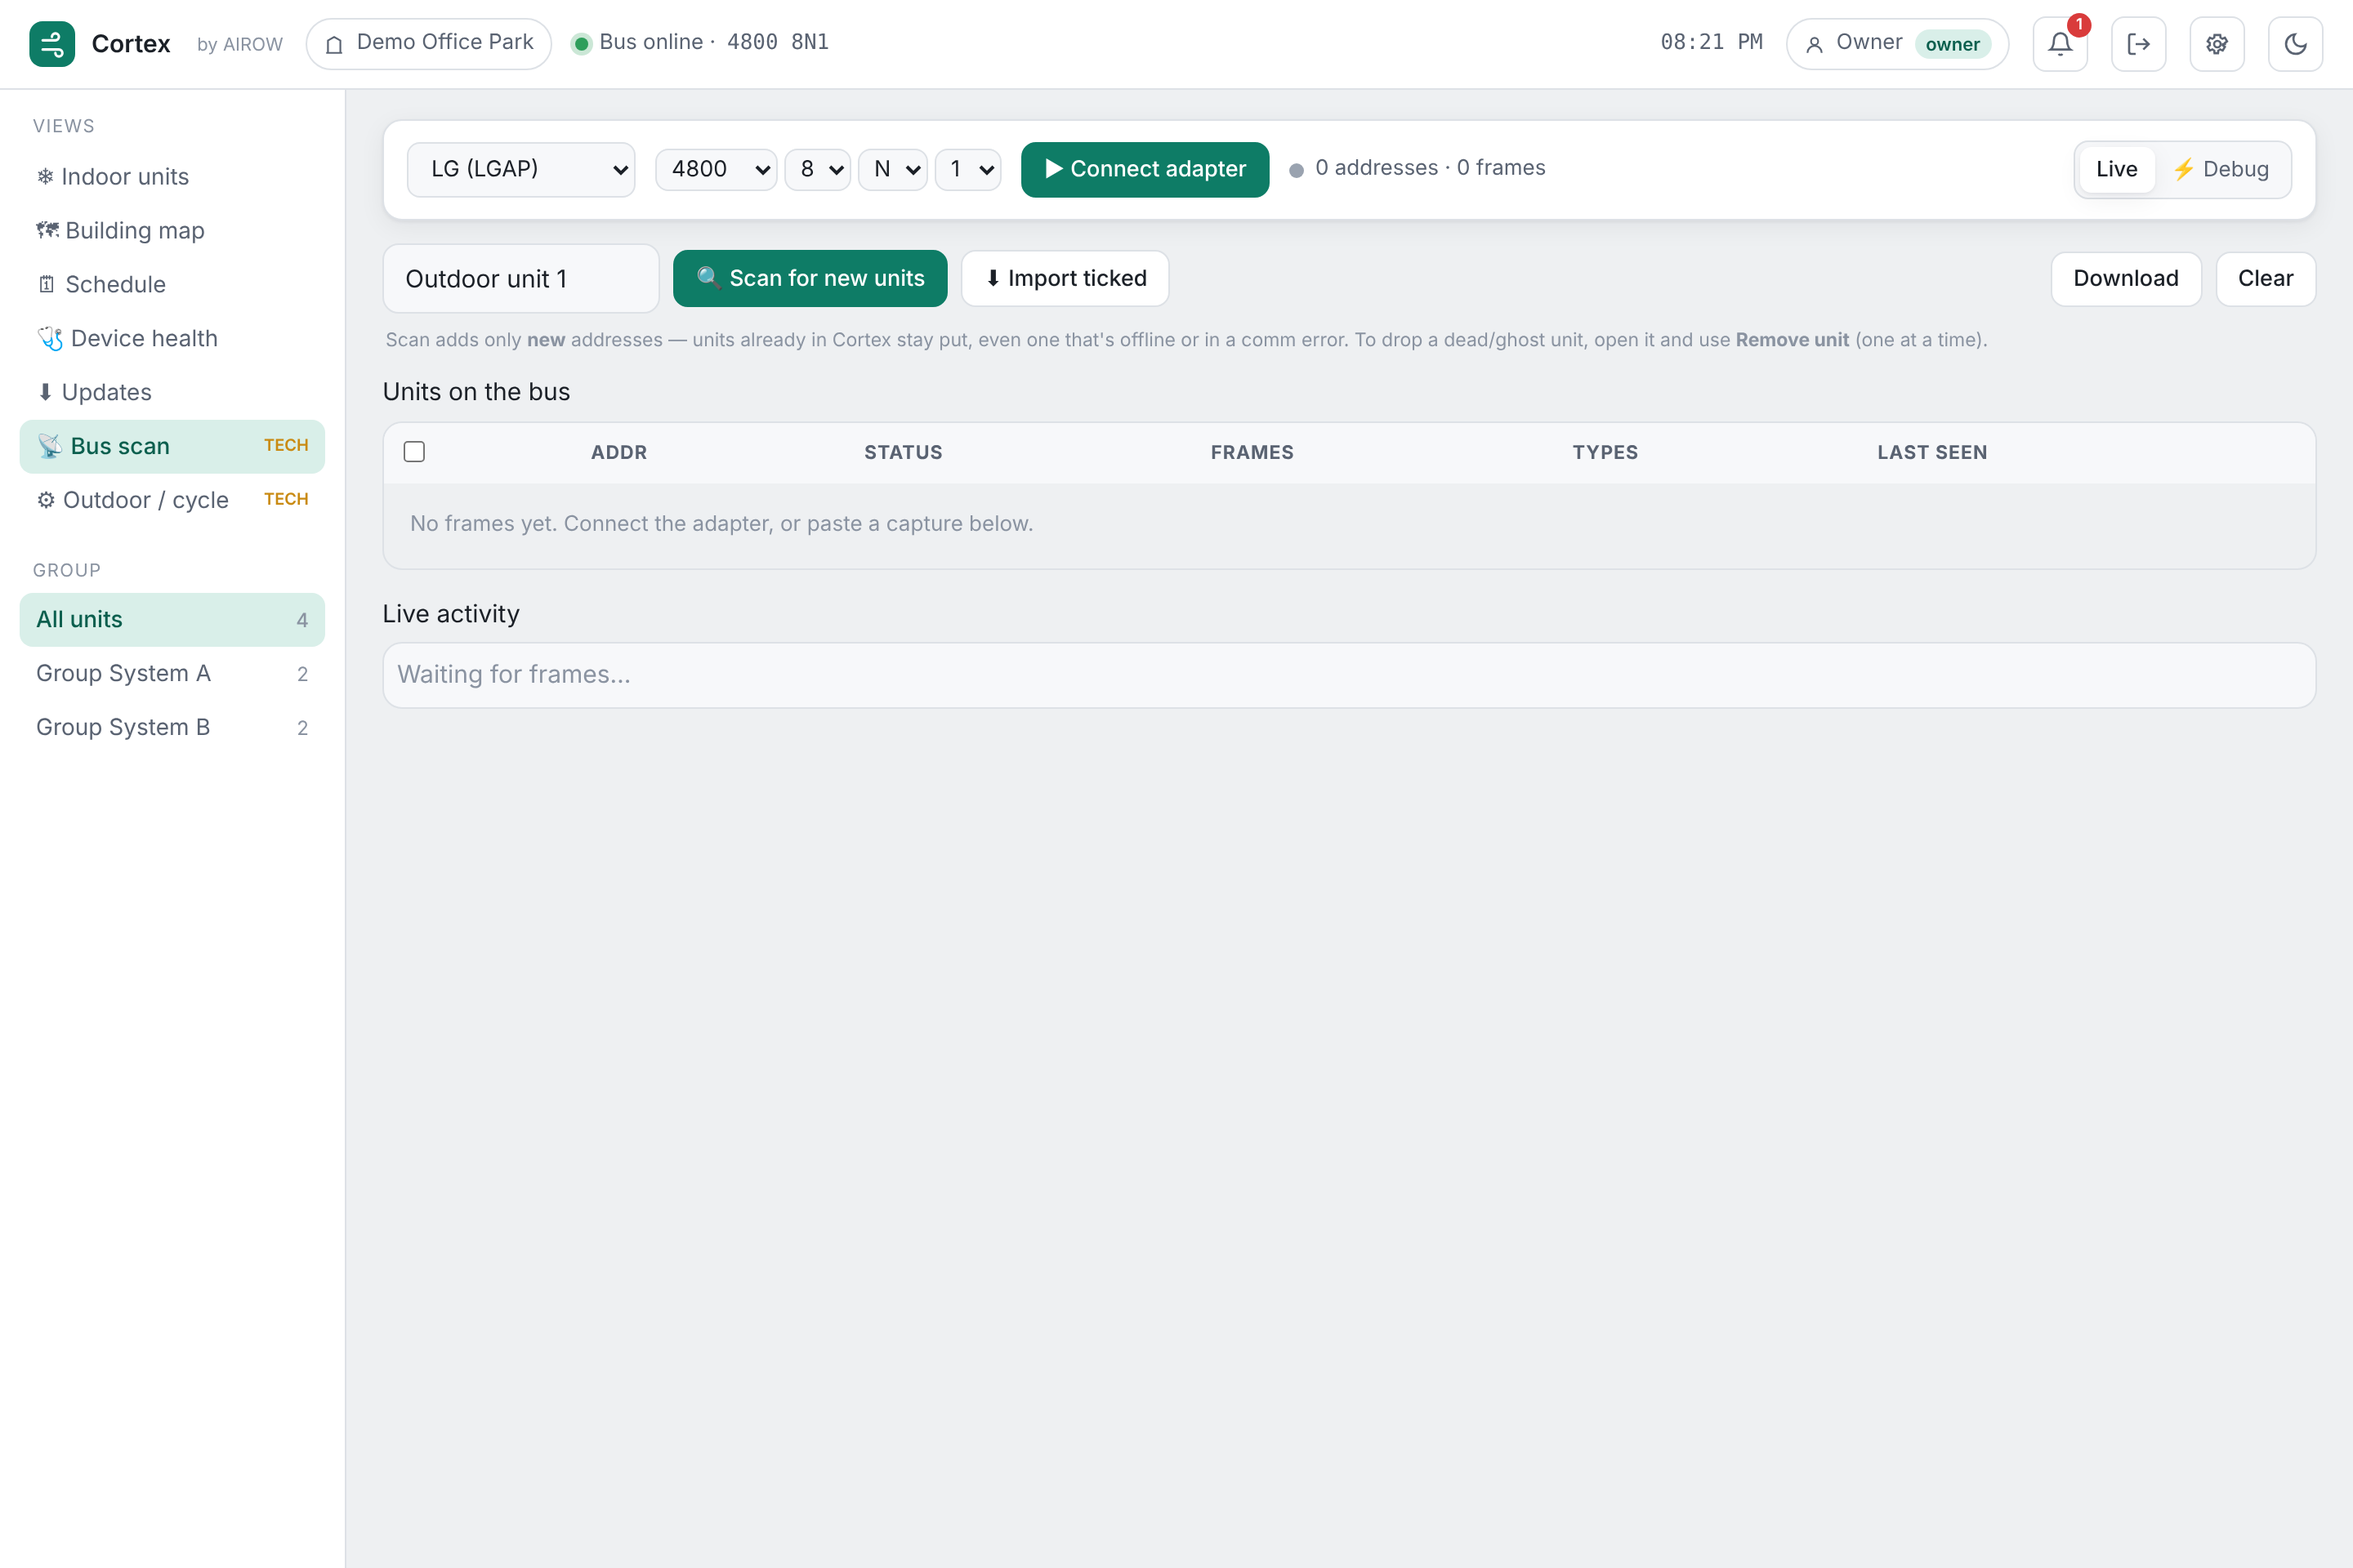
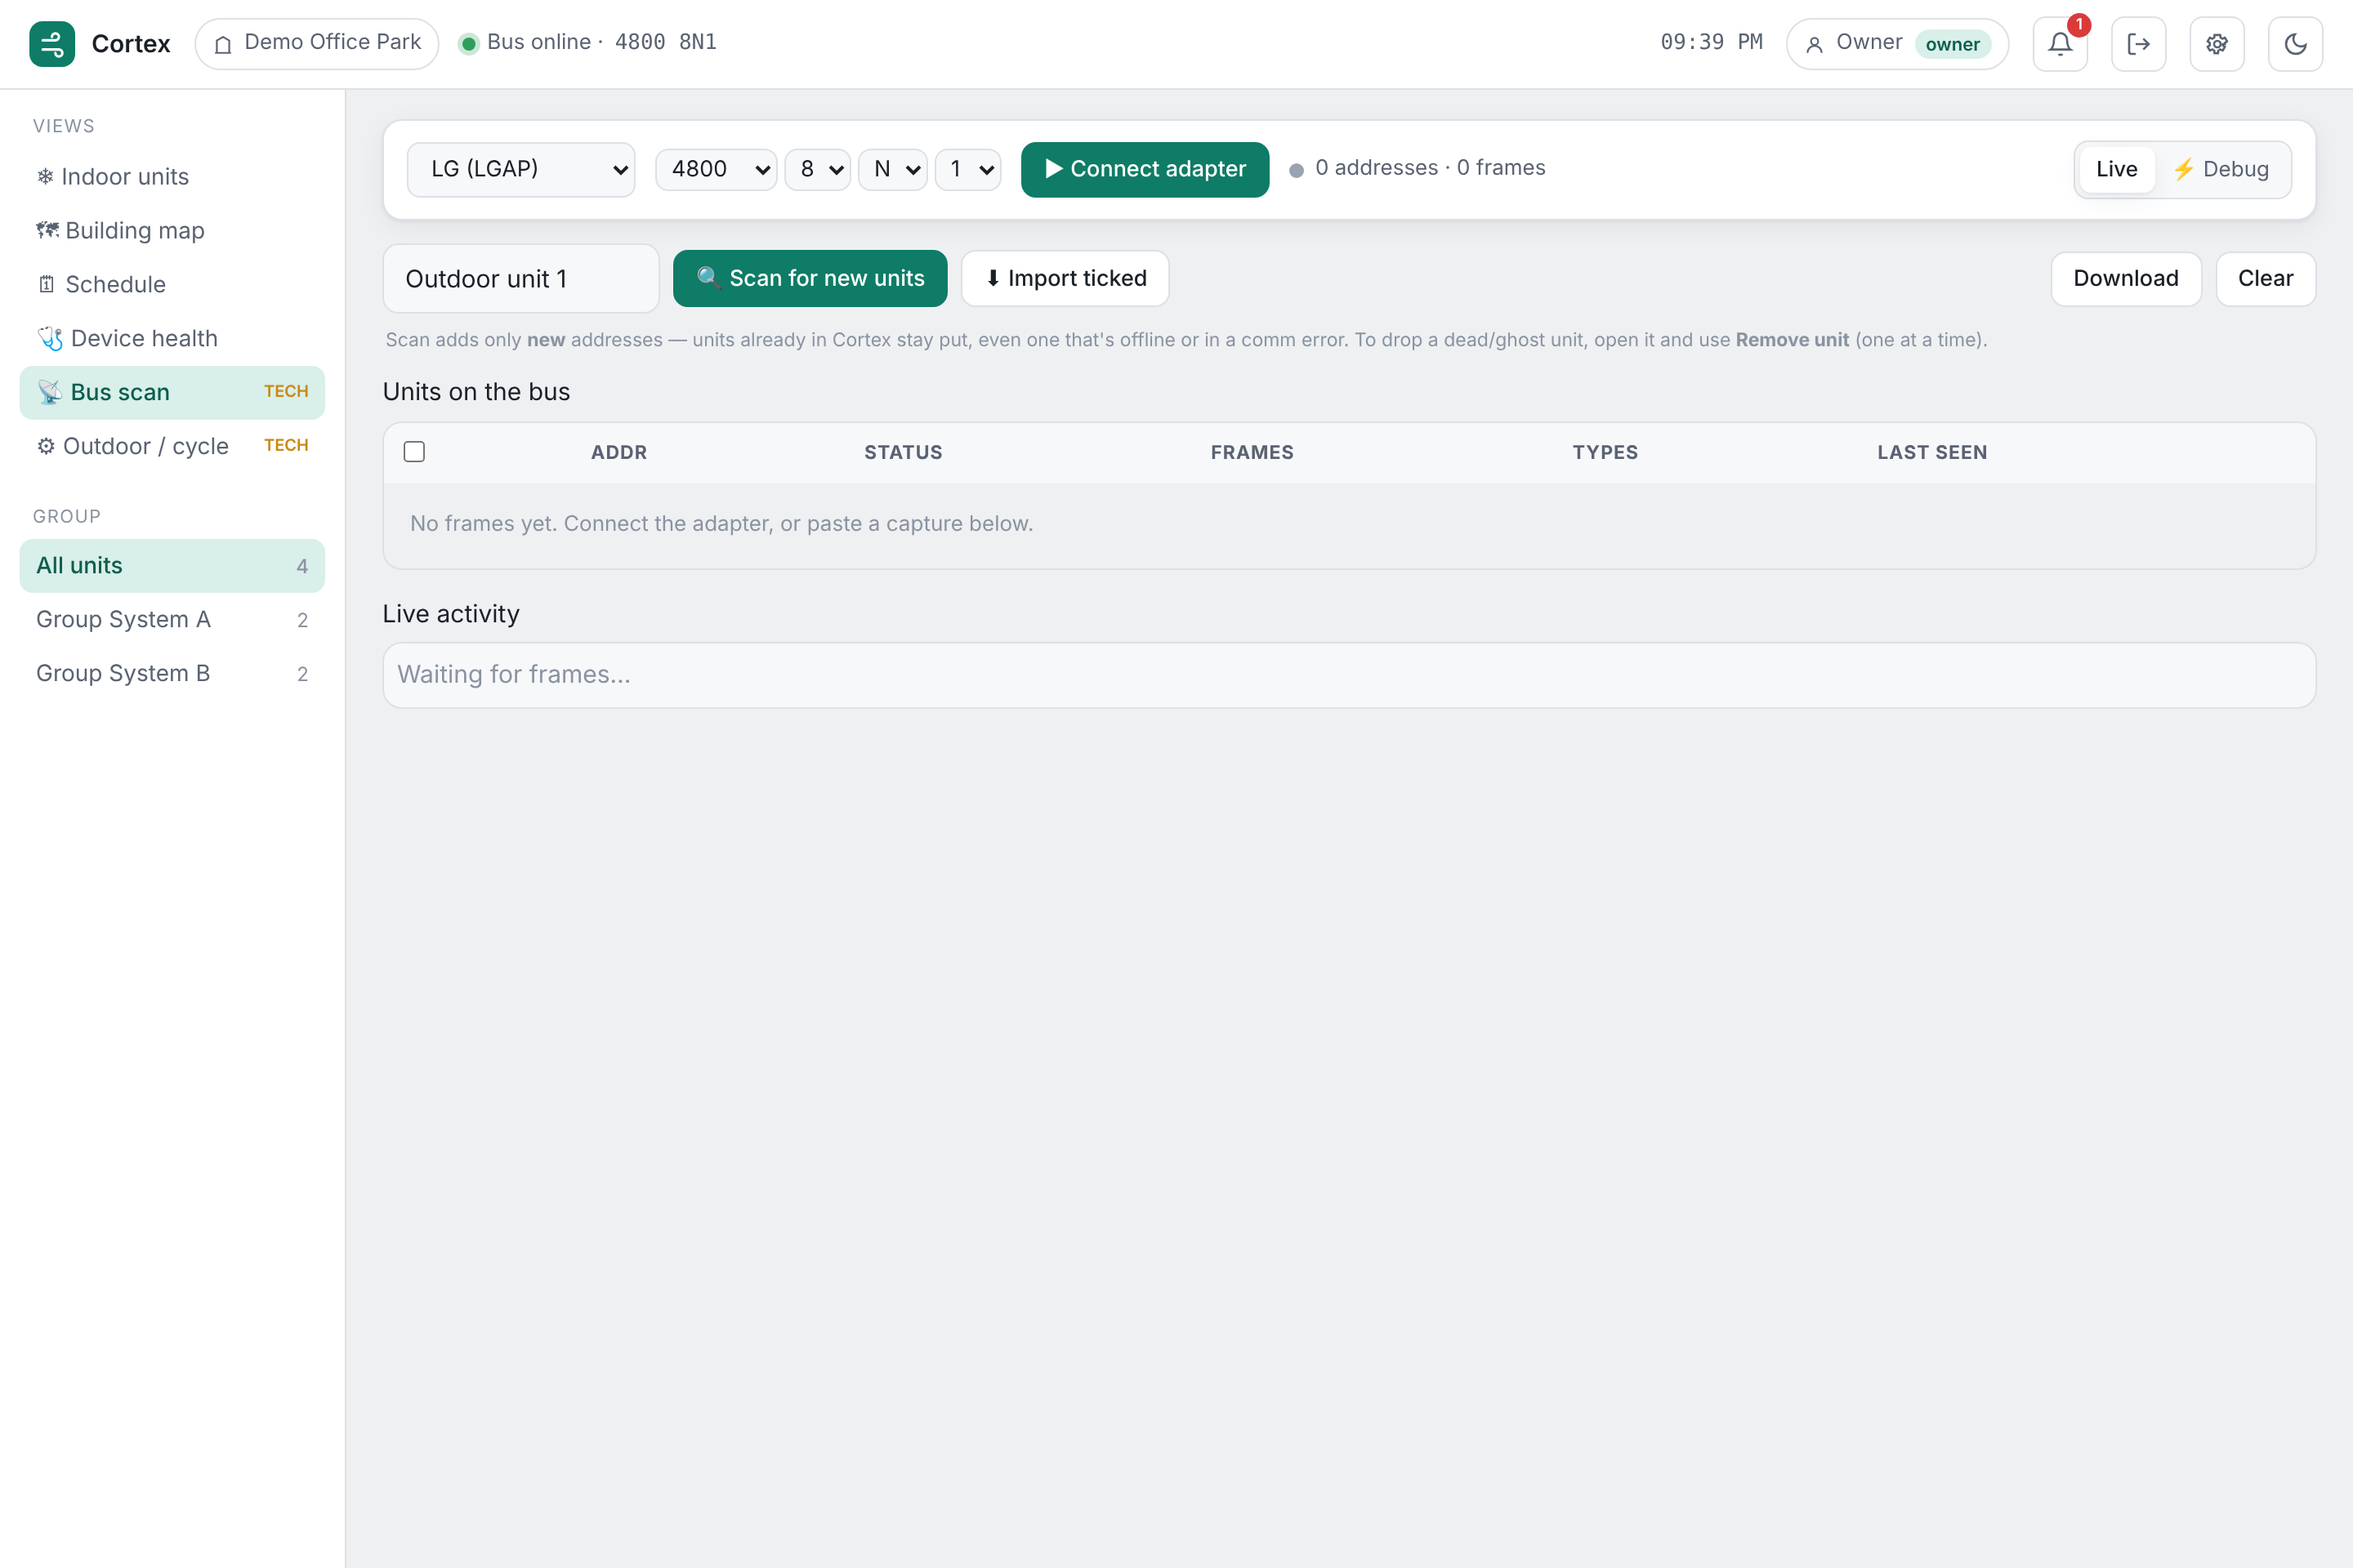
De-brand main UI to Cortex; auto-configure OTA; refresh screenshots
UI:
- Header, setup wizard, page title, and recovery-code prefix now read
  "Cortex" (AIROW removed from the main interface).
- AIROW retained only in Settings > About ("Made by") and the credits
  easter-egg, per operator request.

Install:
- install.sh now derives the OTA repo slug from the git remote and writes
  CORTEX_UPDATE_REPO into update.conf automatically, so a fresh install
  gets working OTA with no manual terminal steps (private repos still
  only need a token added).

Docs:
- Regenerated all six README screenshots against the de-branded UI;
  About screenshot now lands on the About tab.

Claude-Session: https://claude.ai/code/session_014puXJahUGf67REpcZehK7Q

Changed region(s): [[0.0, 0.2188, 0.1562, 0.4688], [0.0938, 0.0, 0.3438, 0.0312]]

diff --git a/cortex.html b/cortex.html
@@ -56,8 +56,9 @@
     cross-host redirect drops it, signed URL self-auths — never --location-trusted).
     bootstrap.sh takes CORTEX_TOKEN, injects into clone URL, then scrubs it from the git remote
     (no token on disk). PERSONAL INFO SCRUBBED from all repo files for public-readiness: real
-    name, location, and demo site IDs genericized; AIROW brand KEPT intentionally (product is
-    "Cortex by AIROW"; operator can request full de-brand). LGAP_reference.md rewritten as a
+    name, location, and demo site IDs genericized. AIROW de-branded from the main UI (header,
+    wizard, recovery-code prefix all "Cortex"); AIROW retained only in Settings>About ("Made by")
+    and the credits easter-egg. LGAP_reference.md rewritten as a
     clean public protocol spec (TOC, worked examples, error table, capture how-to). GitHub NOT
     yet linked to the Claude session (list_repos: no account) - operator must connect GitHub in
     claude.ai settings, then add_repo(push) + push, OR push themselves. Private-token OTA verified.
@@ -331,7 +332,7 @@
 <head>
 <meta charset="utf-8">
 <meta name="viewport" content="width=device-width, initial-scale=1">
-<title>Cortex by AIROW</title>
+<title>Cortex</title>
 <link rel="preconnect" href="https://fonts.googleapis.com">
 <link rel="preconnect" href="https://fonts.gstatic.com" crossorigin>
 <link href="https://fonts.googleapis.com/css2?family=IBM+Plex+Sans:wght@400;500;600&family=IBM+Plex+Mono:wght@400;500&display=swap" rel="stylesheet">
@@ -658,7 +659,7 @@ button.tile:hover{border-color:var(--border-strong);transform:translateY(-1px)}
 </head>
 <body>
 <header>
-  <div class="brand"><span class="logo"><svg width="17" height="17" viewBox="0 0 24 24" fill="none" stroke="currentColor" stroke-width="2.2" stroke-linecap="round"><path d="M3 8h11a3 3 0 1 0-3-3"/><path d="M3 16h14a3 3 0 1 1-3 3"/></svg></span>Cortex<span style="font-size:11px;color:var(--text-faint);font-weight:400;margin-left:6px">by AIROW</span></div>
+  <div class="brand"><span class="logo"><svg width="17" height="17" viewBox="0 0 24 24" fill="none" stroke="currentColor" stroke-width="2.2" stroke-linecap="round"><path d="M3 8h11a3 3 0 1 0-3-3"/><path d="M3 16h14a3 3 0 1 1-3 3"/></svg></span>Cortex</div>
   <div class="site"><svg width="13" height="13" viewBox="0 0 24 24" fill="none" stroke="currentColor" stroke-width="2"><path d="M3 21h18M5 21V7l7-4 7 4v14"/></svg><span id="site-name">Site</span></div>
   <div class="bus"><span class="dot"></span>Bus online · <span class="mono">4800 8N1</span></div>
   <div class="spacer"></div>
@@ -2012,7 +2013,8 @@ function lockedTab(msg,kind){return `<div style="text-align:center;padding:28px 
   <div style="font-size:13px;color:var(--text-dim);margin-bottom:16px">Enter the ${kind} passcode to unlock for this session.</div>
   <button class="btn primary" onclick="askPin('${kind}')">Unlock</button></div>`;}
 function aboutTab(){const isPriv=session.admin||session.tech;return `
-  ${row("Product","",`<span style="color:var(--text-dim)">AIROW Control</span>`)}
+  ${row("Product","",`<span style="color:var(--text-dim)">Cortex</span>`)}
+  ${row("Made by","Local-first HVAC control",`<span style="color:var(--text-dim)">AIROW</span>`)}
   ${row("Version","",`<span class="mono" id="verline" style="color:var(--text-dim);cursor:default">v0.1.0</span>`)}
   ${row("Site","",`<span class="mono" style="color:var(--text-dim)">${(CFG&&CFG.site&&CFG.site.name)||'Site'}</span>`)}
   ${row("Remote access","",`<span style="color:var(--text-dim)">${(CFG&&CFG.remote&&CFG.remote.enabled)?'Tailscale — on':'Off'}</span>`)}
@@ -2020,7 +2022,7 @@ function aboutTab(){const isPriv=session.admin||session.tech;return `
   ${isPriv?`<div style="margin:16px 0 6px;font-size:11px;text-transform:uppercase;letter-spacing:.6px;color:var(--text-faint)">Owner recovery</div>
      <div class="sd" style="margin-bottom:8px">Per-site code to regain owner access if you're locked out. Keep it somewhere safe.</div>
      <div class="recovery">${(CFG&&CFG.recovery)||RECOVERY}</div>`:
-     `<div style="margin-top:16px;font-size:12px;color:var(--text-faint)">AIROW Control — custom VRF controller. © you.</div>`}`;}
+     `<div style="margin-top:16px;font-size:12px;color:var(--text-faint)">Cortex by AIROW — local-first VRF control.</div>`}`;}
 
 /* ---- protocol reference viewer (the "what we know" doc, served by the appliance) ---- */
 function inlineMd(s){return s.replace(/`([^`]+)`/g,'<code class="md-code">$1</code>').replace(/\*\*([^*]+)\*\*/g,'<b>$1</b>');}
@@ -2284,7 +2286,7 @@ function recoverFlow(){showScreen("login");
   document.getElementById("screen-login").innerHTML=`<div class="auth"><div class="auth-card">
    <div class="auth-head"><div class="auth-logo"><span class="logo">${LOGO}</span>Account recovery</div></div>
    <div class="auth-body"><h2>Enter recovery code</h2><div class="auth-sub">The per-site code from commissioning. Resets the owner password.</div>
-    <input id="rc" class="inp mono" placeholder="AIROW-SITE-XXXX-XXXX">
+    <input id="rc" class="inp mono" placeholder="CORTEX-SITE-XXXX-XXXX">
     <div class="err-text" id="rc-err"></div>
     <button class="btn primary" id="rc-go" style="width:100%;justify-content:center;padding:12px">Verify</button>
     <div style="text-align:center;margin-top:14px"><button class="linklike" onclick="showLogin()">Back to sign in</button></div>
@@ -2310,7 +2312,7 @@ let WZ=null, WZi=0;
 function startWizard(){WZ={site:{name:"",location:"",unit:"F"},owner:{name:"",username:"",pass:"",confirm:""},adminPin:"",techPin:"",team:[],remote:{enabled:false},protocols:["lg"]};WZi=0;showScreen("setup");renderWizard();}
 function v(id){const el=document.getElementById(id);return el?el.value:"";}
 const WSTEPS=[
- {title:"Welcome",sub:"Let's commission this AIROW controller for the site.",
+ {title:"Welcome",sub:"Let's commission this Cortex controller for the site.",
   body:()=>`<div class="note-box">This 6-step setup creates the site identity, your owner account, access codes, your team, and remote access. It runs once per controller. You can re-run it later from Settings → Advanced.</div>`,
   save:()=>null},
  {title:"Site",sub:"What are we controlling?",
@@ -2351,7 +2353,7 @@ const WSTEPS=[
   body:()=>`<div class="note-box">Recommended: <b>Tailscale</b> — a private network with no port forwarding, so the controller never sits on the open internet. (WireGuard works too.)</div>
    <div class="setrow"><div><div class="sl">Enable remote access</div><div class="sd">Sets up this controller's end at finish</div></div><button class="toggle ${WZ.remote.enabled?'on':''}" id="rm-tog"></button></div>
    <div id="rm-detail" class="${WZ.remote.enabled?'':'hide'}" style="margin-top:12px">
-     <label class="flabel">This controller will join as</label><div class="recovery" style="color:var(--text)">airow-${(WZ.site.name||'site').toLowerCase().replace(/[^a-z0-9]+/g,'-').replace(/^-|-$/g,'').slice(0,18)}</div>
+     <label class="flabel">This controller will join as</label><div class="recovery" style="color:var(--text)">cortex-${(WZ.site.name||'site').toLowerCase().replace(/[^a-z0-9]+/g,'-').replace(/^-|-$/g,'').slice(0,18)}</div>
      <div class="note-box" style="margin-top:12px">At finish you'll get a one-time join link. Install Tailscale on your phone or laptop, approve the device, and reach the dashboard at its private name — no public IP, no open ports.</div></div>`,
   wire:()=>{const t=document.getElementById("rm-tog");if(t)t.onclick=()=>{WZ.remote.enabled=!WZ.remote.enabled;renderWizard();};},
   save:()=>null},
@@ -2415,7 +2417,7 @@ function renderWizard(){const s=WSTEPS[WZi];
     if(err){document.getElementById("wzerr").textContent=err;return;}
     if(WZi===WSTEPS.length-1)provision();else{WZi++;renderWizard();}};}
 function provision(){
-  const rc="AIROW-"+(WZ.site.name||"SITE").toUpperCase().replace(/[^A-Z0-9]/g,"").slice(0,6)+"-"+Math.random().toString(16).slice(2,6).toUpperCase()+"-"+Math.random().toString(16).slice(2,6).toUpperCase();
+  const rc="CORTEX-"+(WZ.site.name||"SITE").toUpperCase().replace(/[^A-Z0-9]/g,"").slice(0,6)+"-"+Math.random().toString(16).slice(2,6).toUpperCase()+"-"+Math.random().toString(16).slice(2,6).toUpperCase();
   CFG={provisioned:true,site:{name:WZ.site.name,location:WZ.site.location,unit:WZ.site.unit},
     protocols:(WZ.protocols&&WZ.protocols.length?WZ.protocols:["lg"]),
     adminPin:WZ.adminPin,techPin:WZ.techPin,recovery:rc,remote:WZ.remote,unitMeta:{},
